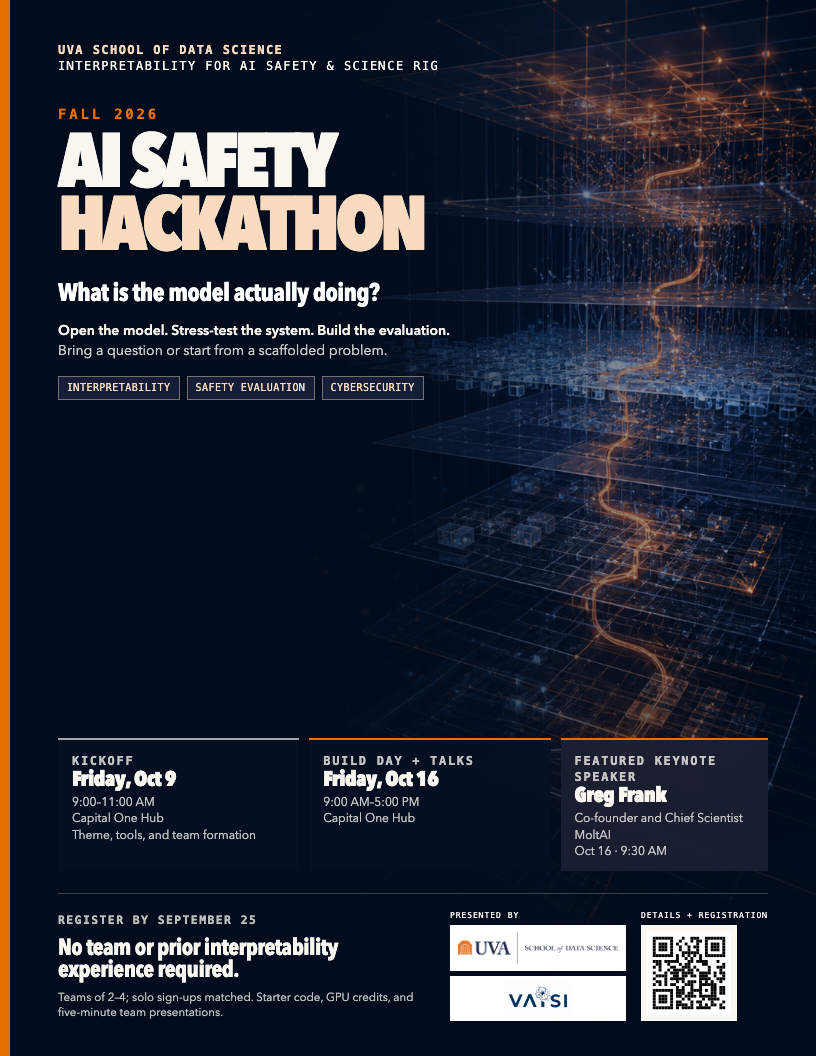
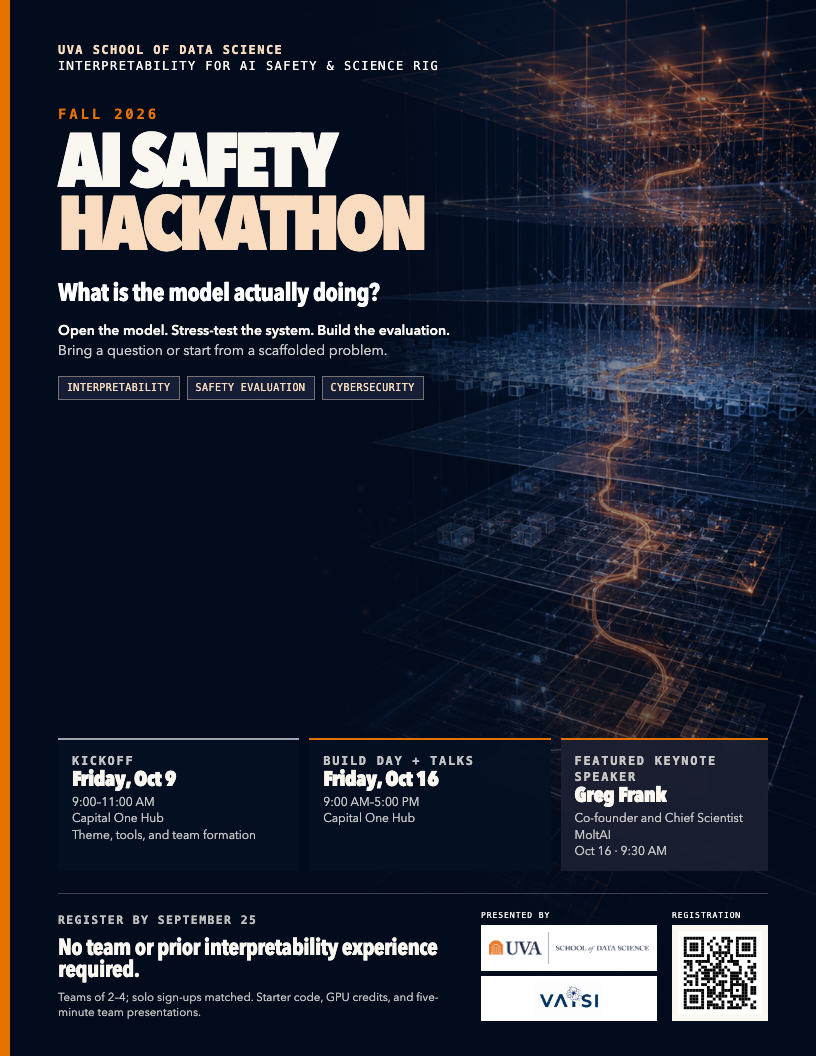
Simplify poster registration label

Changed region(s): [[0.7353, 0.8438, 0.9498, 0.9688], [0.3983, 0.8438, 0.7353, 0.9688], [0.0613, 0.9062, 0.3064, 0.9688]]

diff --git a/poster/index.html b/poster/index.html
@@ -367,7 +367,7 @@
           </div>
         </div>
         <div class="qr">
-          <span>Details + registration</span>
+          <span>Registration</span>
           <img src="assets/qr-info.svg" alt="QR code linking to sig-uva.github.io">
         </div>
       </footer>
